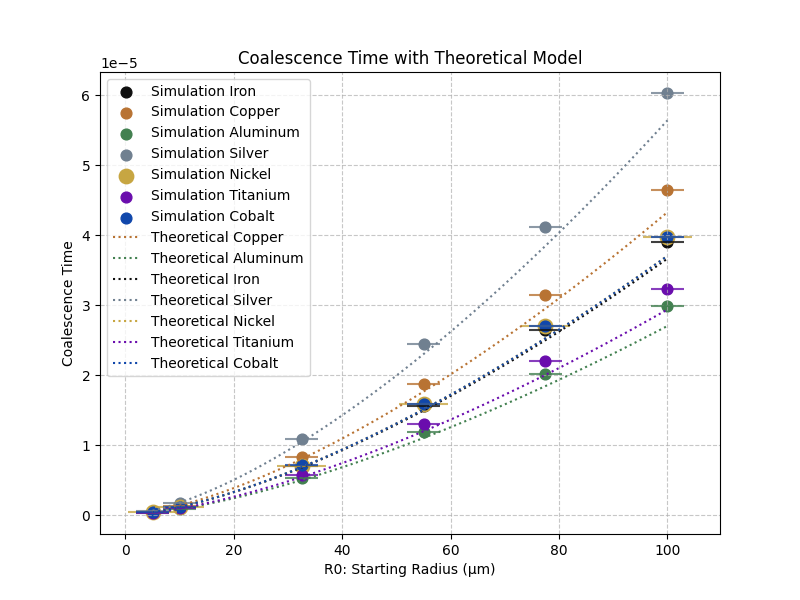
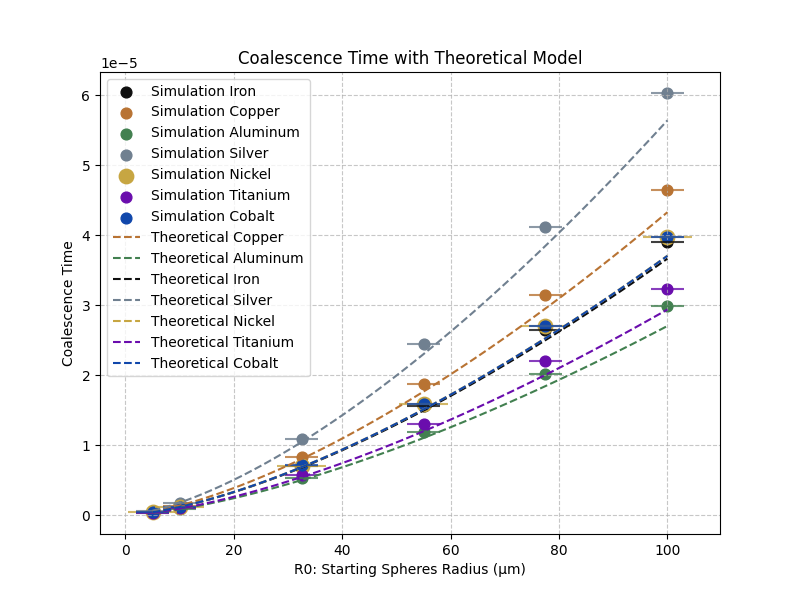
fix typo

diff --git a/intersection.py b/intersection.py
@@ -57,7 +57,7 @@ for mat in materials:
     plt.scatter(file_lengths, times, color=metal_colors[mat], s=marker_sizes[mat], label=mat.capitalize())
     for i, length in enumerate(file_lengths):
         plt.hlines(times[i], length - line_lengths[mat], length + line_lengths[mat], color=metal_colors[mat], alpha=0.8, linewidth=1.5)
-plt.xlabel("R0: Starting Sphere Radius (μm)")
+plt.xlabel("R0: Starting Spheres Radius (μm)")
 plt.ylabel("Coalescence Time")
 plt.title("Coalescence Time Based on Length_x = Length_y")
 plt.grid(True, linestyle="--", alpha=0.7)
@@ -72,8 +72,8 @@ for mat in materials:
     for i, length in enumerate(file_lengths):
         plt.hlines(times[i], length - line_lengths[mat], length + line_lengths[mat], color=metal_colors[mat], alpha=0.8, linewidth=1.5)
 for mat, values in theoretical_values.items():
-    plt.plot(lengths, values, linestyle="dotted", color=metal_colors[mat], label=f"Theoretical {mat.capitalize()}")
-plt.xlabel("R0: Starting Sphere Radius (μm)")
+    plt.plot(lengths, values, linestyle="dashed", color=metal_colors[mat], label=f"Theoretical {mat.capitalize()}")
+plt.xlabel("R0: Starting Spheres Radius (μm)")
 plt.ylabel("Coalescence Time")
 plt.title("Coalescence Time with Theoretical Model")
 plt.grid(True, linestyle="--", alpha=0.7)
